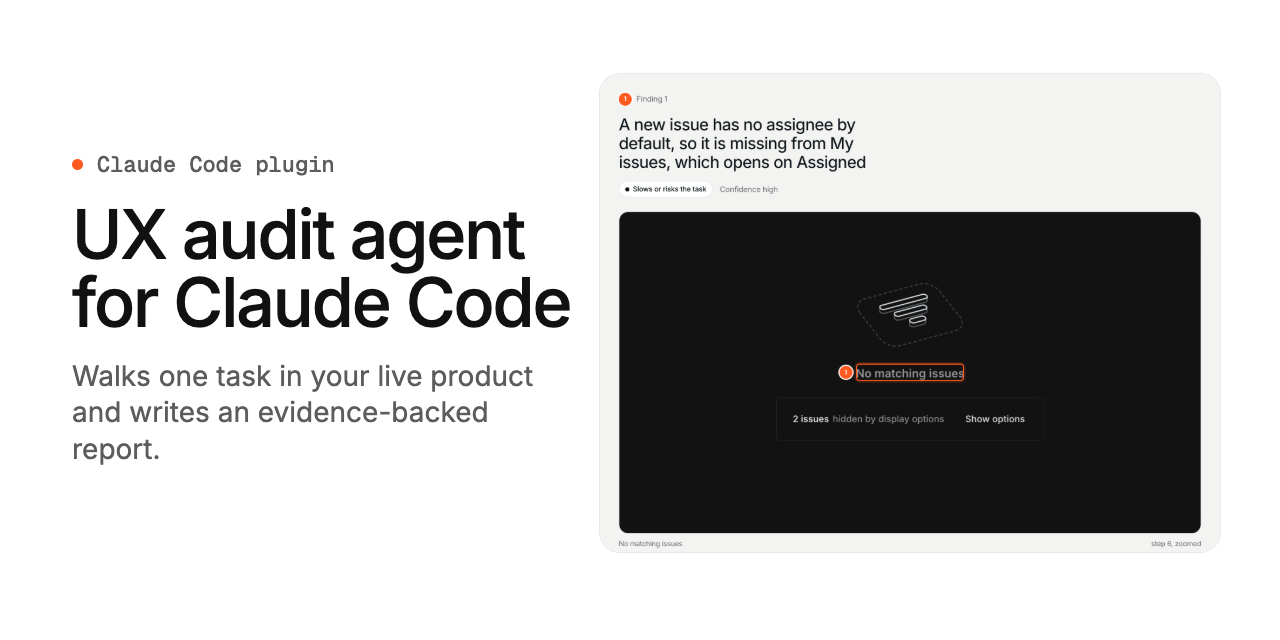
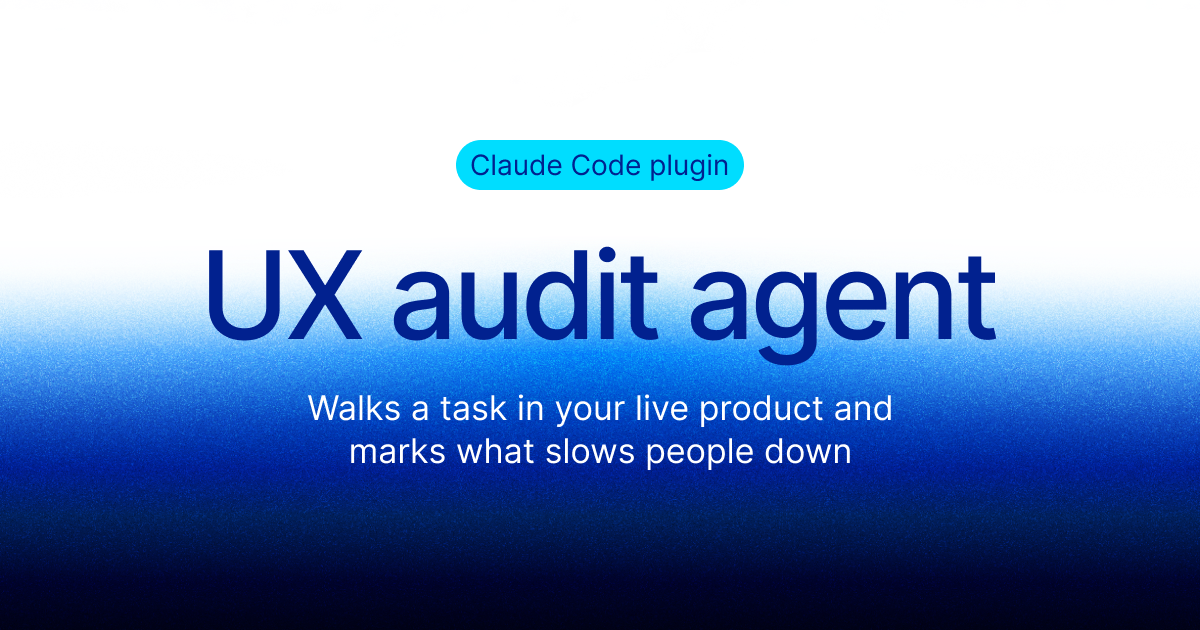
Mask personal data in screenshots, flow start URL, shorter README (0.3.1)
- capture --mask blurs names, emails and avatars in the screenshot only
- flow <id> [url] goes to the flow start page without counting it
- SKILL.md notes on masking and one-selector look
- README top: shorter pitch, three-step how it works
- New social preview image

diff --git a/skills/audit/SKILL.md b/skills/audit/SKILL.md
@@ -59,16 +59,17 @@ ux-audit measure contrast ".hint" --as hintContrast
 ux-audit stop                                     # closes the audit tab and the connection
 ```
 
-- Use `look` before acting on a new screen; scope it (`look 'role=dialog'`) when the page is long. Selectors: `role=button[name="Video"s]` for an exact name, `text=/left$/` for a pattern.
+- Use `look` before acting on a new screen; scope it (`look 'role=dialog'`) when the page is long. `look` takes one selector, not a comma list. Selectors: `role=button[name="Video"s]` for an exact name, `text=/left$/` for a pattern.
 - To replace text already in a field: `act click` it, `act press ControlOrMeta+a`, then `act type`.
 - If the connection drops mid-audit (the tab was closed, or an hour passed without a command), run `start <current url> --continue` to keep the interaction count.
 - Capture each **meaningful state** (new screen, dialog, error, result), not every click.
+- **Personal data.** In the user's own browser the product shows their name, email and avatar (activity lines, assignee chips, subscriber avatars, account menu). On every capture where they appear, add `--mask '<css selector>'` (CSS, repeatable, such as `--mask 'a[href*="/profiles/"]'`): it blurs them in the screenshot only. Check the saved screenshots before writing the report; a report is meant to be shared.
 - Every element you might write about needs a `--target` at capture time. Positions come from the DOM; never estimate them from the screenshot.
 - Use `measure` for any number you will quote (contrast, size, text). Do not compute in your head.
 - If you get blocked, capture the blocking state and stop. Do not work around it.
 - Always run `ux-audit stop` when the walk is done, also after a block: in the user's own browser it closes the audit tab and the connection.
 
-**Several flows (Standard, Deep).** Run `ux-audit flow <id>` before each flow (`id` is lowercase letters and digits, such as `signup`); its captures and measurements go to `audit/flows/<id>/` and its interaction count starts at zero, in the same tab and connection. Walk one flow at a time, and as soon as it is walked, write its `audit/flows/<id>/data/audit.json` (step 5) before starting the next. From then on rely on that file, not on what the earlier pages looked like: do not re-read old `look` output. This keeps the context small enough for every flow to get the same care. In Deep, walk a flow's edges inside that same flow, as extra captured steps.
+**Several flows (Standard, Deep).** Run `ux-audit flow <id> [start url]` before each flow (`id` is lowercase letters and digits, such as `signup`; going to the start url is not counted as an interaction); its captures and measurements go to `audit/flows/<id>/` and its interaction count starts at zero, in the same tab and connection. Walk one flow at a time, and as soon as it is walked, write its `audit/flows/<id>/data/audit.json` (step 5) before starting the next. From then on rely on that file, not on what the earlier pages looked like: do not re-read old `look` output. This keeps the context small enough for every flow to get the same care. In Deep, walk a flow's edges inside that same flow, as extra captured steps.
 
 ## 4. Judge against the protocol
 

diff --git a/README.md b/README.md
@@ -1,18 +1,16 @@
 # ux-audit-agent: UX audit agent for Claude Code
 
-A UX audit agent for Claude Code. You name one task in your live web product ("sign up and create a first project"), or let it propose two or three core flows; the agent walks them in a tab of your own browser, captures every meaningful screen with element positions measured from the DOM, and writes an evidence-backed HTML report a founder can act on. Use it for an onboarding audit, a usability review of one flow, or a first-run check before launch. It runs as a Claude Code plugin and drives the browser with Playwright.
+A UX audit agent for Claude Code. It walks a task in your live web product, in your own browser, and writes an evidence-backed report with marked screenshots. Use it for an onboarding audit, a usability review of a flow, or a first-run check before launch.
 
-[![Finding 1 from the Linear example: a new issue has no assignee by default, so it is missing from My issues, which opens on Assigned](docs/images/report-finding.png)](examples/report/)
+[![Finding from the Linear example: a new issue has no assignee by default, so it is missing from My issues, which opens on Assigned](docs/images/report-finding.png)](examples/report/)
 
-**Example: Linear.** Task: create a first issue, then find it again. The agent found that a new issue has no assignee by default, while My issues opens on the Assigned tab, so the issue you just made is not there and the empty state blames display options. The full report is in [`examples/report/`](examples/report/); open `index.html` locally.
+**Found in Linear:** a new issue has no assignee, and My issues opens on Assigned, so the issue you just made is not there. [Full example report](examples/report/) (open `index.html` locally).
 
-The report has:
+How it works:
 
-- **Summary:** what to keep, cut, change and do next, each line pointing to its evidence.
-- **Journey:** every captured state with the action taken and the product's response.
-- **Findings:** zoomed evidence with marks placed from the DOM, then observed, why it matters, hypothesis, recommendation and evidence.
-- **Priorities:** Now, Next and Test first, each a task you can copy into Linear, Jira or GitHub.
-- **Limits:** what this audit cannot see.
+1. You type `/audit`, give a URL and a task, or let it propose two or three core flows.
+2. It walks them in a tab of your Chrome, Edge or Brave, capturing each screen and measuring elements in the DOM.
+3. You get one HTML report: what to keep, cut and change, annotated findings, and priorities you can paste into Linear, Jira or GitHub.
 
 ## Install
 
